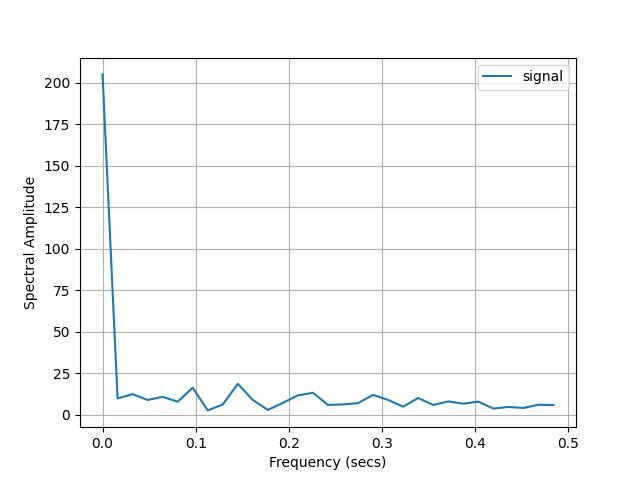
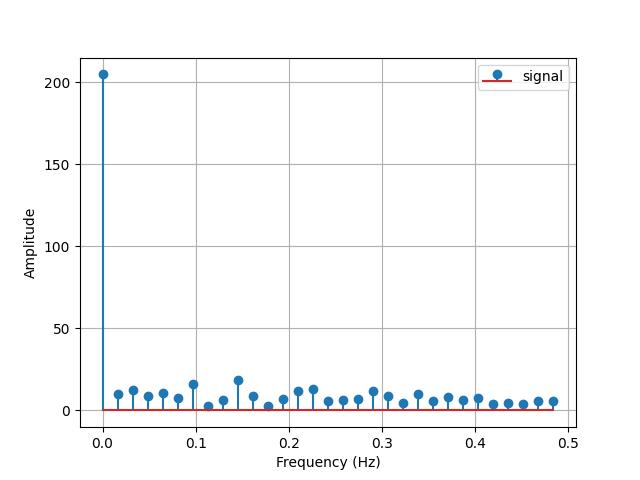
frequency domain

diff --git a/fft_plot.py b/fft_plot.py
@@ -19,6 +19,7 @@ import pandas as pd
 
 import packet_rate_fft
 
+
 #number of sample points
 N = 62
 # frequency of signal (in second)
@@ -28,15 +29,35 @@ x = np.linspace(0, N*T, N)
 # create array that corresponds to values in signal
 # y = df
 # perform FFT on signal
-fq = packet_rate_fft.packet_frequency("dataset/ns1.csv")
+fq = packet_rate_fft.packet_frequency("dataset/endhosts/minzhao.csv")
 yf = fft(fq)
 # create new x-axis: frequency from signal
 xf = fftfreq(N, T)[:N//2]
 # plot results
-plt.plot(xf, 2.0/N*np.abs(yf[0:N//2]), label = 'signal')
+plt.stem(xf, 2.0/N*np.abs(yf[0:N//2]), label = 'signal')
 plt.grid()
-plt.xlabel('Frequency (secs)')
-plt.ylabel(r'Spectral Amplitude')
+plt.xlabel('Frequency (Hz)')
+plt.ylabel(r'Amplitude')
 plt.legend(loc=1)
-plt.savefig('packet_fft_ns1.jpg')
+plt.savefig('packet_fft_minzhao.jpg')
 plt.show()
+
+
+"""
+fq = packet_rate_fft.packet_frequency("dataset/ns1.csv")
+print(fq)
+yf = fft(fq)
+N = len(yf)
+n = np.arange(N)
+T = N/10
+freq = n/T
+
+plt.figure(figsize = (12, 6))
+plt.subplot(121)
+
+plt.stem(freq, np.abs(yf), linefmt='b', markerfmt=" ", basefmt="-b")
+plt.xlabel('Freq(Hz)')
+plt.ylabel("Amplitude")
+plt.xlim(0, 10)
+plt.savefig('packet_fft_ns1_dis.jpg')
+"""
